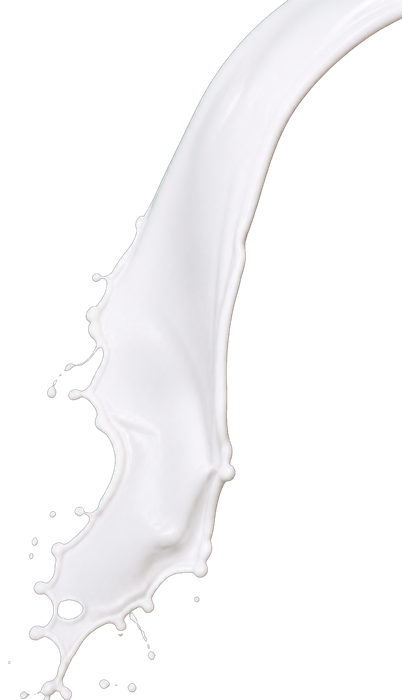
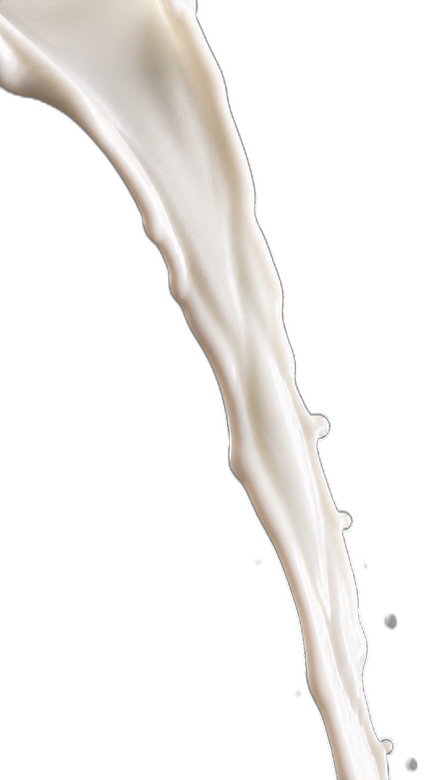
feat: redo cup and splash as reel-style iced latte pour
Replace the ceramic/splash stack with a photoreal iced glass base that
crossfades into an integrated milk-pour splash composite on scroll.

diff --git a/src/components/hero/HeroProduct.tsx b/src/components/hero/HeroProduct.tsx
@@ -9,6 +9,8 @@ type HeroProductProps = {
   accent: string
   amplitudeScale?: number
   cinematic?: boolean
+  /** Optional second image revealed during the coffee ritual (e.g. pour + splash) */
+  revealSrc?: string
 }
 
 export function HeroProduct({
@@ -18,10 +20,12 @@ export function HeroProduct({
   accent,
   amplitudeScale = 1,
   cinematic = false,
+  revealSrc,
 }: HeroProductProps) {
   const parallaxRef = useRef<HTMLDivElement>(null)
   const floatRef = useRef<HTMLDivElement>(null)
   const shadowRef = useRef<HTMLDivElement>(null)
+  const revealRef = useRef<HTMLImageElement>(null)
 
   useMouseParallax(18, (x, y, rotateX, rotateY) => {
     if (!parallaxRef.current) return
@@ -49,7 +53,7 @@ export function HeroProduct({
       el,
       {
         y: -18 * amplitudeScale,
-        rotate: 2.5 * amplitudeScale,
+        rotate: 2.2 * amplitudeScale,
         duration: 5.8,
       },
       0,
@@ -69,19 +73,25 @@ export function HeroProduct({
     }
   }, [amplitudeScale])
 
+  useEffect(() => {
+    if (revealRef.current) {
+      gsap.set(revealRef.current, { opacity: 0 })
+    }
+  }, [revealSrc])
+
   return (
     <div
       className={`pointer-events-none absolute left-1/2 z-50 -translate-x-1/2 -translate-y-1/2 ${
-        cinematic ? 'top-[58%]' : 'top-[46%]'
+        cinematic ? 'top-[60%]' : 'top-[46%]'
       }`}
-      style={{ width: `min(${width}px, ${cinematic ? '62vw' : '58vw'})` }}
+      style={{ width: `min(${width}px, ${cinematic ? '46vw' : '58vw'})` }}
     >
       <div className="hero-product will-change-transform">
         <div ref={parallaxRef} className="will-change-transform">
           <div ref={floatRef} className="relative will-change-transform">
             <div
               aria-hidden
-              className="absolute left-1/2 top-1/2 h-[78%] w-[78%] -translate-x-1/2 -translate-y-1/2 rounded-full blur-3xl"
+              className="absolute left-1/2 top-[40%] h-[70%] w-[70%] -translate-x-1/2 -translate-y-1/2 rounded-full blur-3xl"
               style={{
                 background: `radial-gradient(circle, ${accent}66 0%, transparent 70%)`,
               }}
@@ -94,12 +104,25 @@ export function HeroProduct({
               fetchPriority="high"
               decoding="async"
               draggable={false}
-              className="relative z-10 mx-auto h-auto w-full object-contain select-none drop-shadow-[0_40px_80px_rgba(0,0,0,0.55)]"
+              className="hero-product-base relative z-10 mx-auto h-auto w-full object-contain select-none drop-shadow-[0_40px_80px_rgba(0,0,0,0.55)]"
             />
+            {revealSrc ? (
+              <img
+                ref={revealRef}
+                src={revealSrc}
+                alt=""
+                aria-hidden
+                width={width}
+                loading="eager"
+                decoding="async"
+                draggable={false}
+                className="hero-product-reveal pointer-events-none absolute inset-0 z-20 mx-auto h-auto w-full object-contain select-none drop-shadow-[0_40px_80px_rgba(0,0,0,0.55)]"
+              />
+            ) : null}
             <div
               ref={shadowRef}
               aria-hidden
-              className="pointer-events-none absolute left-1/2 bottom-1 z-0 h-8 w-[58%] -translate-x-1/2 rounded-[100%] bg-black/65 blur-2xl will-change-transform"
+              className="pointer-events-none absolute left-1/2 bottom-2 z-0 h-8 w-[48%] -translate-x-1/2 rounded-[100%] bg-black/65 blur-2xl will-change-transform"
               style={{ opacity: 0.5 }}
             />
           </div>

diff --git a/src/hooks/useCoffeeRitualScroll.ts b/src/hooks/useCoffeeRitualScroll.ts
@@ -25,19 +25,20 @@ export function useCoffeeRitualScroll({
     const ctx = gsap.context(() => {
       const mockup = root.querySelector('.hero-mockup')
       const product = root.querySelector('.hero-product')
+      const productBase = root.querySelector('.hero-product-base')
+      const productReveal = root.querySelector('.hero-product-reveal')
       const steam = root.querySelectorAll('.smoke-puff')
-      const milk = root.querySelectorAll('[data-ritual="milk"]')
       const ice = root.querySelectorAll('[data-ritual="ice"]')
       const sugar = root.querySelectorAll('[data-ritual="sugar"]')
-      const splash = root.querySelectorAll('[data-ritual="splash"]')
       const beans = root.querySelectorAll('[data-ritual="bean"]')
       const copy = root.querySelector('.hero-copy')
+      const cta = root.querySelectorAll('.hero-cta')
 
-      gsap.set(milk, { opacity: 0, y: -40, scaleY: 0.4, transformOrigin: '50% 0%' })
       gsap.set(ice, { opacity: 0, y: -120, rotate: -20 })
       gsap.set(sugar, { opacity: 0, scale: 0.7, y: -30 })
-      gsap.set(splash, { opacity: 0, scale: 0.45, rotate: -8 })
       gsap.set(steam, { opacity: 0.08 })
+      if (productReveal) gsap.set(productReveal, { opacity: 0, scale: 0.94 })
+      if (productBase) gsap.set(productBase, { opacity: 1 })
 
       const tl = gsap.timeline({
         scrollTrigger: {
@@ -65,39 +66,46 @@ export function useCoffeeRitualScroll({
         )
         .to(product, { scale: 1.08, y: -10, ease: 'none' }, 0)
 
-      // 0.12–0.42 milk flows + dominant splash burst
+      // 0.12–0.45 milk pour + integrated splash reveal on the glass
       tl.to(
-        milk,
-        {
-          opacity: 1,
-          y: 30,
-          scaleY: 1,
-          duration: 0.22,
-          ease: 'none',
-        },
-        0.12,
-      )
-        .to(
-          splash,
+          productReveal,
           {
             opacity: 1,
-            scale: 1.28,
-            rotate: 0,
-            stagger: 0.05,
-            duration: 0.24,
+            scale: 1.06,
+            duration: 0.28,
             ease: 'none',
           },
-          0.2,
+          0.14,
         )
         .to(
-          splash,
+          productBase,
+          {
+            opacity: 0,
+            scale: 1.02,
+            duration: 0.22,
+            ease: 'none',
+          },
+          0.16,
+        )
+        .to(
+          product,
           {
             scale: 1.12,
-            opacity: 1,
+            y: -16,
+            duration: 0.3,
+            ease: 'none',
+          },
+          0.14,
+        )
+        .to(
+          cta,
+          {
+            opacity: 0.15,
+            y: 16,
             duration: 0.2,
             ease: 'none',
           },
-          0.44,
+          0.2,
         )
 
       // 0.35–0.55 ice cubes drop
@@ -181,11 +189,9 @@ export function useCoffeeRitualScroll({
           0.7,
         )
         .to(
-          splash,
+          productReveal,
           {
-            scale: 1.18,
-            opacity: 0.95,
-            y: 12,
+            scale: 1.1,
             ease: 'none',
           },
           0.68,

diff --git a/src/config/themes/coffee.ts b/src/config/themes/coffee.ts
@@ -40,9 +40,10 @@ export const coffeeTheme: ThemeConfig = {
     browserUrl: 'aroma.atelier/ritual',
   },
   product: {
-    src: '/assets/coffee/cup.png',
-    alt: 'Signature ceramic cup of specialty coffee',
-    width: 520,
+    src: '/assets/coffee/cup-base.png',
+    alt: 'Iced latte in a tall glass',
+    width: 400,
+    revealSrc: '/assets/coffee/cup.png',
   },
   floatingObjects: [
     {
@@ -193,62 +194,6 @@ export const coffeeTheme: ThemeConfig = {
       zIndex: 45,
       ritual: 'sugar',
       hideOnTablet: true,
-    },
-    {
-      id: 'milk-1',
-      src: '/assets/coffee/milk.png',
-      alt: 'Milk pour',
-      x: 66,
-      y: 30,
-      width: 180,
-      depth: 1.15,
-      rotate: -6,
-      floatDuration: 8.8,
-      floatDelay: 0.3,
-      floatAmplitude: 10,
-      floatAmplitudeX: 4,
-      floatRotate: 3,
-      scrollSpeed: 1.2,
-      zIndex: 57,
-      ritual: 'milk',
-      hideOnMobile: true,
-    },
-    {
-      id: 'splash-1',
-      src: '/assets/coffee/splash.png',
-      alt: 'Milk splash',
-      x: 52,
-      y: 56,
-      width: 380,
-      depth: 1.35,
-      rotate: -4,
-      floatDuration: 9.5,
-      floatDelay: 0.2,
-      floatAmplitude: 10,
-      floatAmplitudeX: 6,
-      floatRotate: 4,
-      scrollSpeed: 1.25,
-      zIndex: 56,
-      ritual: 'splash',
-    },
-    {
-      id: 'splash-2',
-      src: '/assets/coffee/splash.png',
-      alt: 'Secondary milk splash',
-      x: 38,
-      y: 50,
-      width: 240,
-      depth: 1.15,
-      rotate: 18,
-      floatDuration: 8.2,
-      floatDelay: 0.7,
-      floatAmplitude: 12,
-      floatAmplitudeX: 8,
-      floatRotate: -6,
-      scrollSpeed: 1.35,
-      zIndex: 55,
-      ritual: 'splash',
-      hideOnMobile: true,
     },
     {
       id: 'leaf-1',

diff --git a/src/components/hero/Hero.tsx b/src/components/hero/Hero.tsx
@@ -175,6 +175,7 @@ export function Hero({ theme, onThemeChange, themes = [] }: HeroProps) {
                   accent={theme.colors.accent}
                   amplitudeScale={amplitudeScale}
                   cinematic
+                  revealSrc={theme.product.revealSrc}
                 />
                 {visibleFloats.map((item) => (
                   <FloatingObject
@@ -212,7 +213,7 @@ export function Hero({ theme, onThemeChange, themes = [] }: HeroProps) {
                 </p>
               </div>
 
-              <div className="pointer-events-none absolute inset-x-0 bottom-24 z-[56] flex justify-center gap-3 px-5 md:bottom-28">
+              <div className="pointer-events-none absolute inset-x-0 bottom-16 z-[56] flex justify-center gap-3 px-5 md:bottom-20">
                 {theme.buttons.map((button) => (
                   <a
                     key={button.label}
@@ -283,6 +284,7 @@ export function Hero({ theme, onThemeChange, themes = [] }: HeroProps) {
                   width={theme.product.width}
                   accent={theme.colors.accent}
                   amplitudeScale={amplitudeScale}
+                  revealSrc={theme.product.revealSrc}
                 />
                 {visibleFloats.map((item) => (
                   <FloatingObject

diff --git a/src/types/hero.ts b/src/types/hero.ts
@@ -82,6 +82,8 @@ export type ThemeConfig = {
     width: number
     /** Optional inset screenshot shown inside the mockup behind the product */
     mockupImage?: string
+    /** Optional ritual reveal image (e.g. pour + splash composite) */
+    revealSrc?: string
   }
   floatingObjects: FloatingAssetConfig[]
   particles: {
